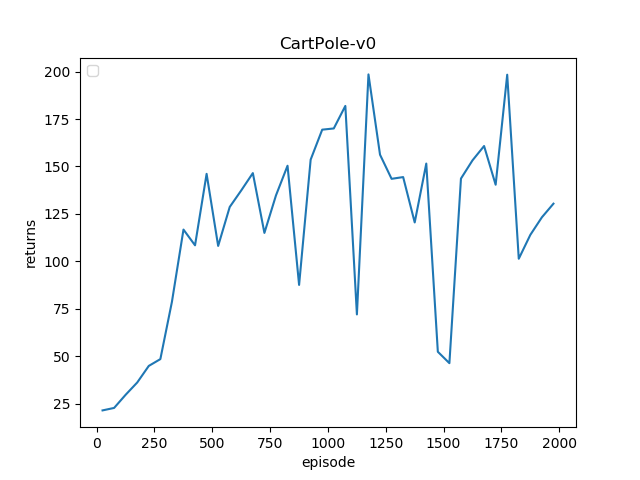
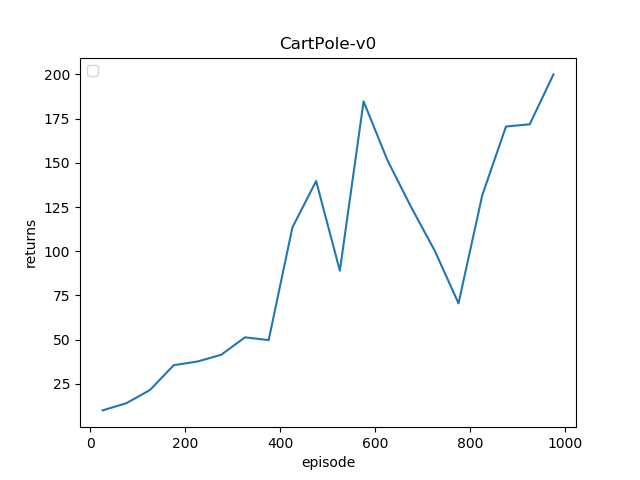
update sarsa

diff --git a/all/agents/sarsa.py b/all/agents/sarsa.py
@@ -12,26 +12,23 @@ class Sarsa(Agent):
         self.next_state = None
         self.next_action = None
 
-    def new_episode(self, env):
-        self.env = env
-        self.state = self.env.state
+    def initial(self, state, info=None):
+        self.state = state
         self.action = self.policy(self.state)
+        return self.action
 
-    def act(self):
-        self.env.step(self.action)
-        self.next_state = self.env.state
-        self.next_action = (
-            None if self.env.done
-            else self.policy(self.next_state)
-        )
-        self.update()
-        self.state = self.next_state
-        self.action = self.next_action
-
-    def update(self):
+    def act(self, next_state, reward, info=None):
+        next_action = self.policy(next_state)
         td_error = (
-            self.env.reward
-            + self.gamma * self.q.eval(self.next_state, self.next_action)
+            reward
+            + self.gamma * self.q.eval(next_state, next_action)
             - self.q(self.state, self.action)
         )
+        self.q.reinforce(td_error)
+        self.state = next_state
+        self.action = next_action
+        return self.action
+
+    def terminal(self, reward, info=None):
+        td_error = reward - self.q(self.state, self.action)
         self.q.reinforce(td_error)

diff --git a/all/presets/sarsa/classic_control/__init__.py b/all/presets/sarsa/classic_control/__init__.py
@@ -6,27 +6,24 @@ from all.agents import Sarsa
 from all.approximation import QTabular
 from all.policies import GreedyPolicy
 
-
 def fc_net(env, frames=1):
     return nn.Sequential(
         Flatten(),
         nn.Linear(env.state_space.shape[0] * frames, 256),
-        nn.ReLU(),
+        nn.Tanh(),
         nn.Linear(256, env.action_space.n)
     )
 
 def sarsa_cc(
         lr=1e-3,
-        annealing_time=10000,
-        final_epsilon=0.02
+        epsilon=0.1
 ):
     def _sarsa_cc(env):
         model = fc_net(env)
         optimizer = Adam(model.parameters(), lr=lr)
         q = QTabular(model, optimizer)
-        policy = GreedyPolicy(q, annealing_time=annealing_time, final_epsilon=final_epsilon)
+        policy = GreedyPolicy(q, annealing_time=1, final_epsilon=epsilon)
         return Sarsa(q, policy)
     return _sarsa_cc
-
 
 __all__ = ["sarsa_cc"]

diff --git a/all/approximation/q_tabular.py b/all/approximation/q_tabular.py
@@ -1,11 +1,11 @@
 import copy
 import torch
 from torch import optim
-from torch.nn.functional import smooth_l1_loss
+from torch.nn.functional import mse_loss
 from .q_function import QFunction
 
 class QTabular(QFunction):
-    def __init__(self, model, optimizer=None, loss=smooth_l1_loss, target_update_frequency=None):
+    def __init__(self, model, optimizer=None, loss=mse_loss, target_update_frequency=None):
         self.model = model
         self.optimizer = (optimizer
                           if optimizer is not None

diff --git a/all/presets/sarsa/classic_control/cartpole.py b/all/presets/sarsa/classic_control/cartpole.py
@@ -2,14 +2,14 @@ from all.experiments import Experiment
 from all.presets.sarsa import sarsa_cc
 
 def run():
-    experiment = Experiment('CartPole-v0', episodes=2000, trials=1)
+    experiment = Experiment('CartPole-v0', episodes=1000, trials=1)
     experiment.run(
         sarsa_cc(),
         plot_every=50,
         print_every=1,
         render=True
     )
-    experiment.plot(filename="sarsa_cartpole")
+    experiment.plot(filename="sarsa_cartpole", frequency=50)
 
 if __name__ == '__main__':
     run()

diff --git a/all/policies/greedy.py b/all/policies/greedy.py
@@ -3,7 +3,7 @@ import torch
 from .abstract import Policy
 
 class GreedyPolicy(Policy):
-    def __init__(self, q, initial_epsilon=1., final_epsilon=0.1, annealing_time=1000000):
+    def __init__(self, q, initial_epsilon=1., final_epsilon=0.1, annealing_time=1):
         self.q = q
         self.epsilon = initial_epsilon
         self.final_epsilon = final_epsilon
